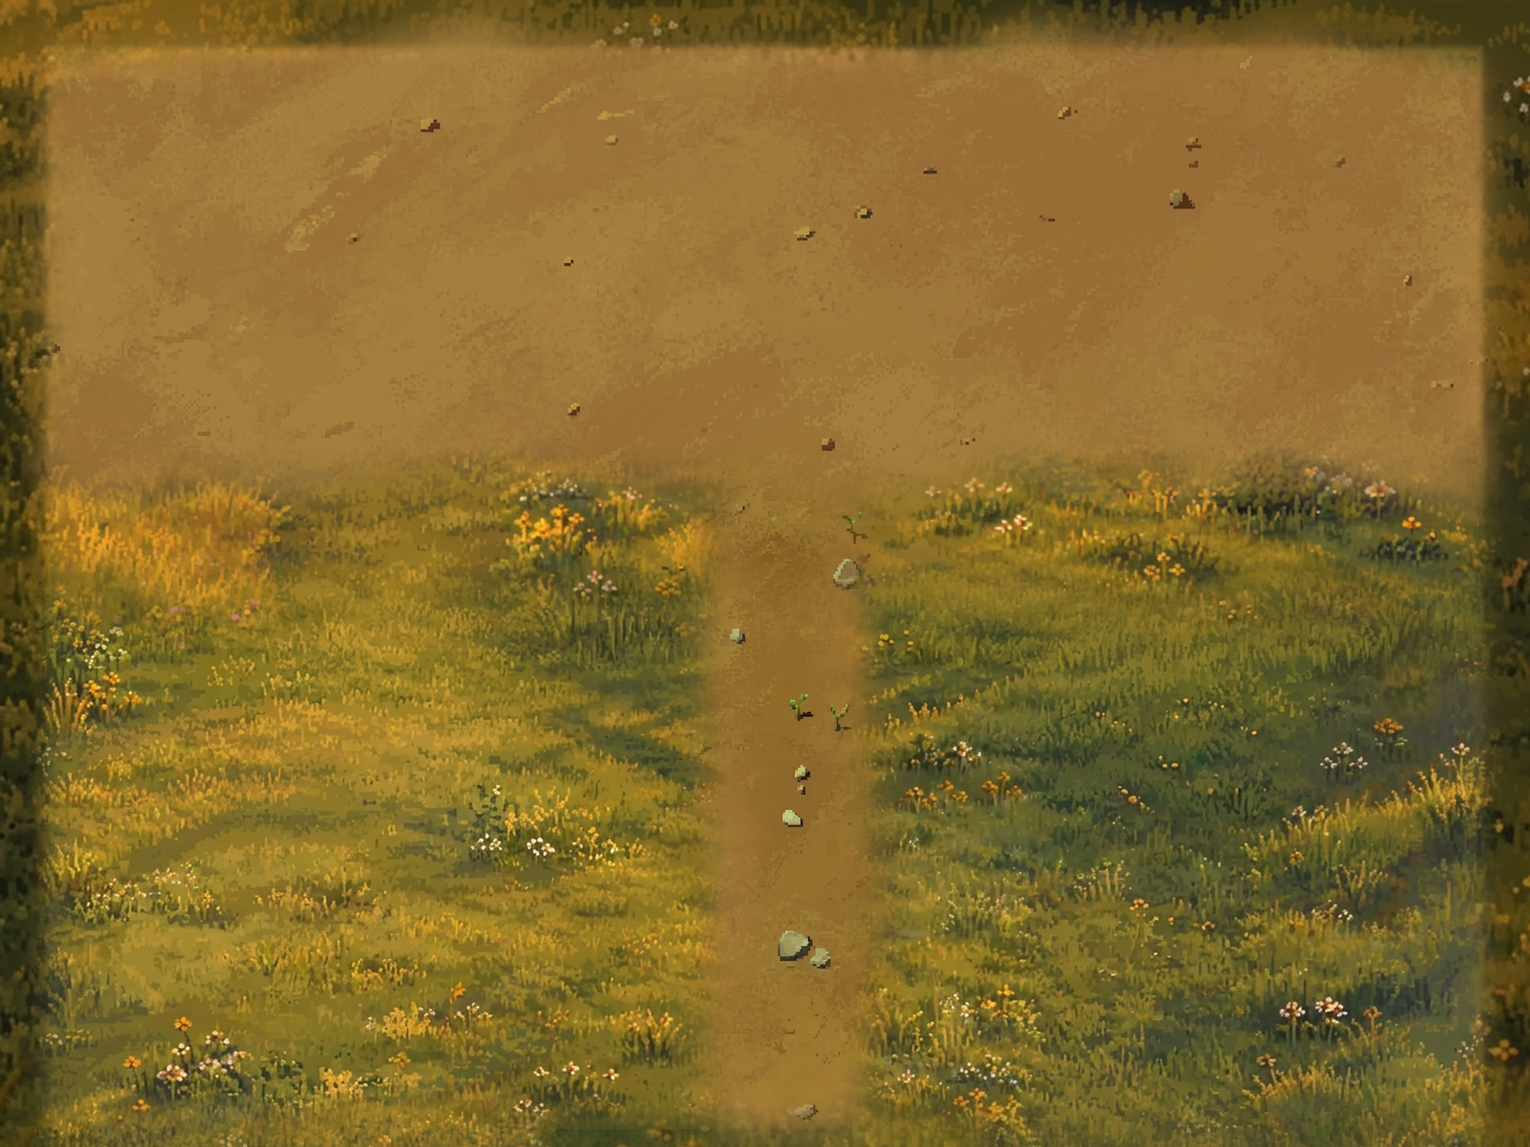
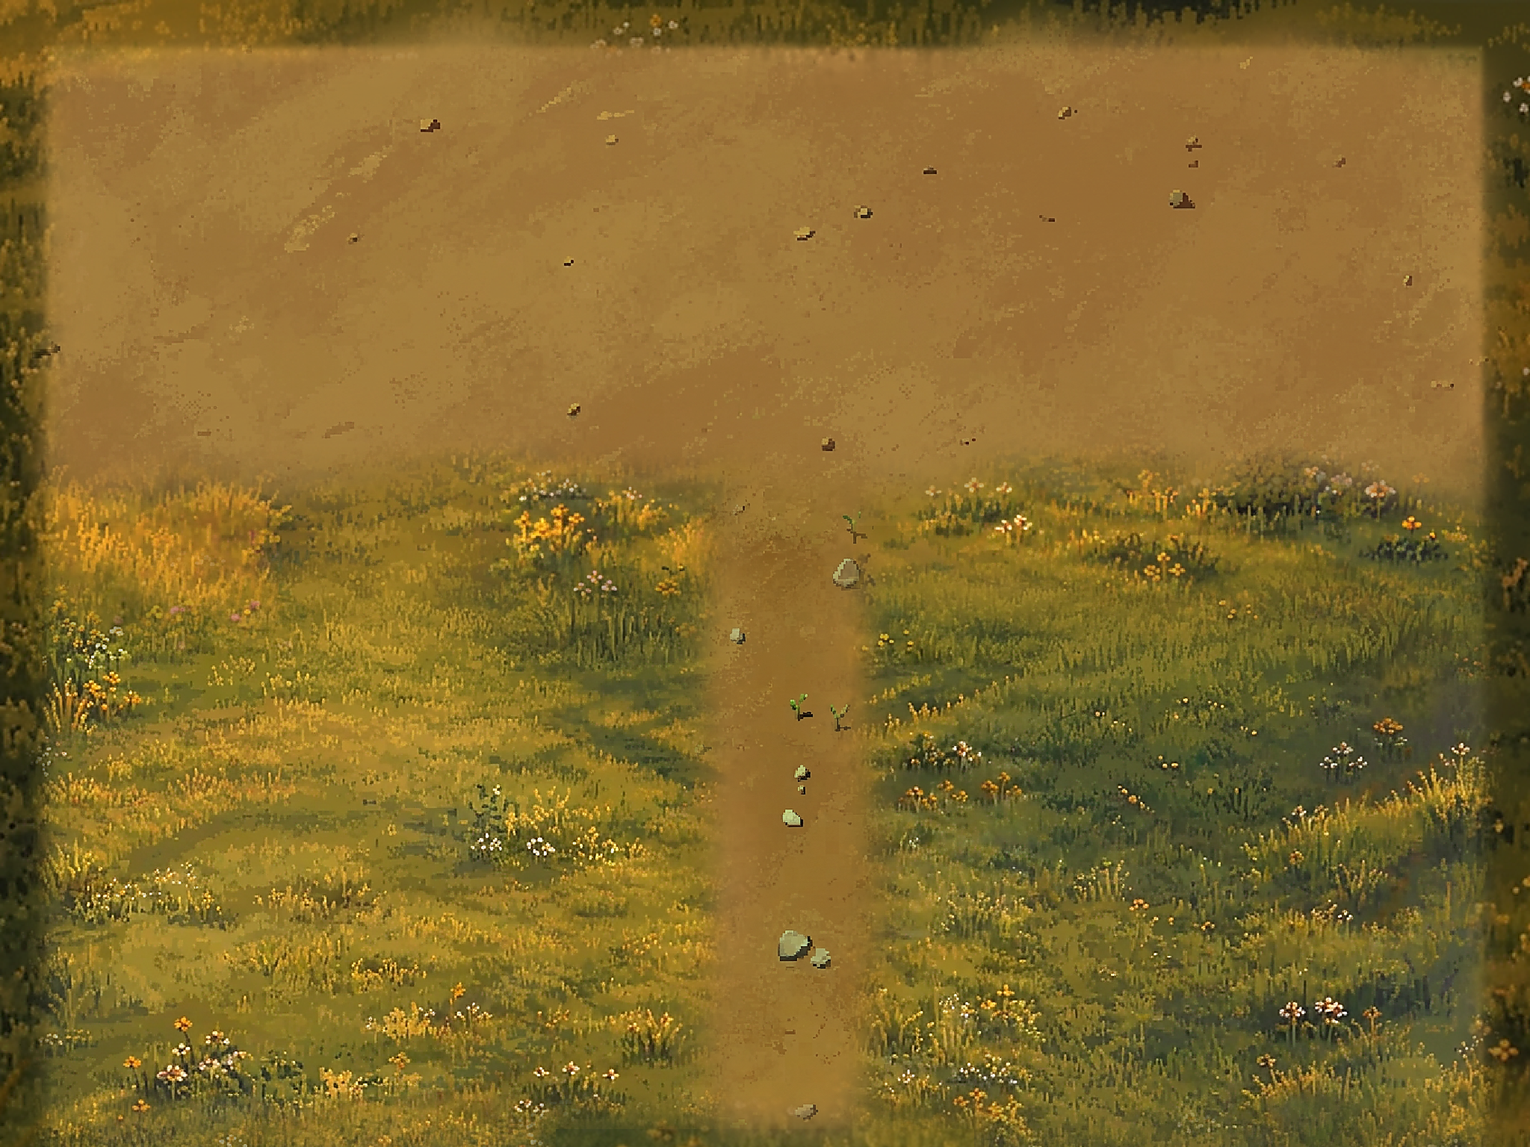
Improve overworld ground clarity

diff --git a/tests/proto/check_quality_assets.py b/tests/proto/check_quality_assets.py
@@ -11,7 +11,7 @@ from pathlib import Path
 import sys
 import tempfile
 
-from PIL import Image, ImageChops
+from PIL import Image, ImageChops, ImageStat
 
 ROOT = Path(__file__).resolve().parents[2]
 os.chdir(ROOT)
@@ -34,6 +34,17 @@ def same_pixels(generated, path):
     with Image.open(path) as saved:
         return (generated.mode == saved.mode and generated.size == saved.size
                 and generated.tobytes() == saved.tobytes())
+
+
+def adjacent_luma_difference(image):
+    """Mean local edge strength, used only as a blur regression indicator."""
+    gray = image.convert("L")
+    width, height = gray.size
+    horizontal = ImageChops.difference(gray.crop((0, 0, width - 1, height)),
+                                       gray.crop((1, 0, width, height)))
+    vertical = ImageChops.difference(gray.crop((0, 0, width, height - 1)),
+                                     gray.crop((0, 1, width, height)))
+    return (ImageStat.Stat(horizontal).mean[0] + ImageStat.Stat(vertical).mean[0]) / 2.0
 
 
 def source_point_to_field(x, y):
@@ -147,21 +158,47 @@ def check_refinement():
             assert max(piece.size) <= 2048, "texture exceeds older phone WebGL limits"
             assert same_pixels(piece, path), "non-reproducible refined ground: " + str(path)
             image.paste(piece, (0, y))
-        # Water and crossing are *exactly* the earlier reference pixels at the
-        # new density. Use a max across RGB channels, not grayscale conversion,
-        # which can round a one-channel difference to zero. This also catches a
-        # misplaced cut between the pieces.
-        red, green, blue = ImageChops.difference(image, masks["base"]).split()
+        # Compare independently against the original reference, not the
+        # builder's sharpened land base: otherwise sharpening the protected
+        # shoreline could make both output and expected pixels wrong together.
+        reference = Image.open(Path("art/scenes_painted") /
+                               ("world_" + region + "_reference.png")).convert("RGB")
+        reference = reference.resize((width, height), Image.Resampling.LANCZOS)
+        assert reference.tobytes() == masks["reference_base"].tobytes()
+        # Use the max across RGB channels, not grayscale, which can round a
+        # one-channel difference to zero. Both halves are reassembled here.
+        red, green, blue = ImageChops.difference(image, reference).split()
         diff = ImageChops.lighter(ImageChops.lighter(red, green), blue)
+        water = refined_ground.material_mask(raw["grid"], "~=e", (width, height))
+        shore_core = refined_ground.material_mask(raw["grid"], "~=e", (width, height), padding=24)
+        assert masks["water"].tobytes() == water.tobytes(), region + " changed protected materials"
+        assert masks["shore_core"].tobytes() == shore_core.tobytes(), region + " changed shoreline core"
         if region == "elah":
-            assert masks["water"].getbbox() is not None, "Elah water mask is empty"
-            assert ImageChops.subtract(masks["shore_core"], masks["water"]).getbbox() is not None, \
+            assert water.getbbox() is not None, "Elah water mask is empty"
+            assert ImageChops.subtract(shore_core, water).getbbox() is not None, \
                 "Elah shoreline protection must extend beyond water tiles"
-        assert ImageChops.multiply(diff, masks["water"]).getbbox() is None, region + " changed water"
-        assert ImageChops.multiply(diff, masks["shore_core"]).getbbox() is None, region + " cut into shoreline"
+        assert ImageChops.multiply(diff, water).getbbox() is None, region + " changed water"
+        assert ImageChops.multiply(diff, shore_core).getbbox() is None, region + " cut into shoreline"
         assert ImageChops.multiply(diff, masks["grass"]).getbbox() is not None, region + " lacks new meadow detail"
         assert ImageChops.multiply(diff, masks["path"]).getbbox() is not None, region + " lacks new path detail"
-    print("refined fig and four reproducible map-aligned ground pieces with untouched water: PASS")
+
+        # Fixed, ground-only crops from the previously published textures. This
+        # numerical check catches a return to the blurred source processing, or
+        # an extreme change in contrast/colour; it is not a substitute for
+        # viewing actual frames or checking for shimmer while moving.
+        part, box = {"elah": ("bottom", (700, 950, 1000, 1250)),
+                     "bethlehem": ("top", (100, 400, 400, 700))}[region]
+        before = Image.open(Path("tests/fixtures/ground_clarity") /
+                            (region + "-published.png")).convert("RGB")
+        after = pieces[part].crop(box)
+        baseline_edge = adjacent_luma_difference(before)
+        edge = adjacent_luma_difference(after)
+        assert 1.25 * baseline_edge < edge < 1.95 * baseline_edge, \
+            f"{region} clarity regression: before {baseline_edge:.2f}, after {edge:.2f}"
+        old_mean, new_mean = ImageStat.Stat(before).mean, ImageStat.Stat(after).mean
+        assert max(abs(a - b) for a, b in zip(old_mean, new_mean)) < 3.0, \
+            region + " ground palette shifted in clarity crop"
+    print("refined fig, clearer split ground, stable palettes and untouched water/shore: PASS")
 
 
 def check_people():

diff --git a/tools/art/build_refined_ground.py b/tools/art/build_refined_ground.py
@@ -9,6 +9,11 @@ original map materials; the brook and crossing retain the old pixels. This is
 visual art only: navigation, collision, props and story positions remain in
 region JSON. The shepherd-field reference is deliberately untouched.
 
+The source paintings are sharpened before nearest-neighbour resizing, so their
+existing small details survive without an extra smooth resampling pass. This
+improves perceived edge clarity; it does not invent high-resolution detail.
+The original shoreline and water retain their previous Lanczos-scaled pixels.
+
 Each output is at most 2048 pixels on a side, to avoid requiring a larger WebGL
 texture limit. The runtime places the two halves at their original world extent.
 Requires Pillow 13.0.0. Run from the repository root; --check is read-only.
@@ -72,6 +77,17 @@ def ridge_mask_for(grid, size):
     return mask.filter(ImageFilter.GaussianBlur(26))
 
 
+def fit_ground_detail(source, size):
+    """Retain the painting's small edges instead of smoothing them twice.
+
+    Sharpen at the *source* scale, not after enlargement. Nearest-neighbour
+    fitting then preserves those painted edges without adding interpolated blur.
+    This is deliberately limited to land artwork, not the protected water.
+    """
+    source = source.filter(ImageFilter.UnsharpMask(radius=1.0, percent=140, threshold=3))
+    return ImageOps.fit(source, size, Image.Resampling.NEAREST)
+
+
 def meadow(region, size):
     width, height = size
     sources = MEADOWS[region]
@@ -84,7 +100,7 @@ def meadow(region, size):
         # remaining irregular grass and flowers at their natural proportions.
         trim = 80 if region == "elah" else 48
         source = source.crop((0, 0, source.width, source.height - trim))
-        image = ImageOps.fit(source, (width, band_h), Image.Resampling.LANCZOS)
+        image = fit_ground_detail(source, (width, band_h))
         if mirrored:
             image = ImageOps.mirror(image)
         if index == 0:
@@ -117,7 +133,7 @@ def path_texture(size):
                       source.crop((middle, 0, source.width, source.height))])
     strip = Image.new("RGB", (strip_w, height))
     for i, crop in enumerate(crops):
-        section = ImageOps.fit(crop, (strip_w, band_h), Image.Resampling.LANCZOS)
+        section = fit_ground_detail(crop, (strip_w, band_h))
         y = i * (band_h - overlap)
         if i == 0:
             strip.paste(section, (0, y))
@@ -178,16 +194,23 @@ def build(region):
     previous = Image.open(SCENES / ("world_" + region + "_reference.png")).convert("RGB")
     if previous.size != (size[0] // 2, size[1] // 2):
         raise ValueError("previous ground no longer matches the region: " + region)
-    base = previous.resize(size, Image.Resampling.LANCZOS)
+    reference_base = previous.resize(size, Image.Resampling.LANCZOS)
     # Protect the river tiles exactly AND the irregular painted shoreline that
     # extends into adjacent grass tiles. Without that extra feathered margin,
     # replacing the meadow cuts the winding bank into a straight tile edge.
-    # Water and crossing pixels are enlarged, never repainted or reinterpreted.
+    # Water and crossing pixels keep the previous pass's exact pixels.
     water = material_mask(grid, "~=e", size)
     shore_core = material_mask(grid, "~=e", size, padding=24)
     shoreline = material_mask(grid, "~=e", size, feather=20, padding=40)
     protected = ImageChops.lighter(shore_core, shoreline)
     safe = ImageChops.invert(protected)
+
+    # The reference also remains visible on paving and the edges of paths.
+    # Sharpen those existing land pixels, too, but cross-fade to the unchanged
+    # reference before reaching the shoreline. No map or collision changes.
+    sharper_base = previous.filter(ImageFilter.UnsharpMask(radius=1.0, percent=100, threshold=3))
+    sharper_base = sharper_base.resize(size, Image.Resampling.NEAREST)
+    base = Image.composite(sharper_base, reference_base, safe)
     grass_mask = ImageChops.multiply(material_mask(grid, ".fgwm", size, 18), safe)
     meadow_texture = meadow(region, size)
     image = Image.composite(meadow_texture, base, grass_mask)
@@ -205,7 +228,7 @@ def build(region):
         ridge_mask = ImageChops.multiply(ridge_mask_for(grid, size), safe)
         ridge = Image.new("RGB", size)
         earth = Image.open(ROOT / "reference_earth_ground.png").convert("RGB")
-        ridge.paste(ImageOps.fit(earth, (size[0], 11 * TILE), Image.Resampling.LANCZOS), (0, 0))
+        ridge.paste(fit_ground_detail(earth, (size[0], 11 * TILE)), (0, 0))
         ridge = match_mean(ridge, base, ridge_mask)
         image = Image.composite(ridge, image, ridge_mask)
 
@@ -223,7 +246,8 @@ def build(region):
     middle = size[1] // 2
     pieces = {"top": image.crop((0, 0, size[0], middle)),
               "bottom": image.crop((0, middle, size[0], size[1]))}
-    return pieces, {"base": base, "water": water, "shore_core": shore_core,
+    return pieces, {"base": base, "reference_base": reference_base,
+                    "water": water, "shore_core": shore_core,
                     "grass": grass_mask, "path": path_mask}
 
 

diff --git a/tests/test_pack_contents.py b/tests/test_pack_contents.py
@@ -64,6 +64,10 @@ class PackBoundaryTests(unittest.TestCase):
                         "art/characters_reference/eliab_back_body.png.import",
                         "art/characters_reference/king_front_body.png.import",
                         "art/scenes_painted/world_elah_reference.png.import",
+                        "art/scenes_painted/world_elah_refined_top.png.import",
+                        "art/scenes_painted/world_elah_refined_bottom.png.import",
+                        "art/scenes_painted/world_bethlehem_refined_top.png.import",
+                        "art/scenes_painted/world_bethlehem_refined_bottom.png.import",
                         "art/props_painted/tent_royal_open.png.import",
                         "art/props_painted/brook_stone_a.png.import"):
                 with self.subTest(mode=mode, art=art), self.assertRaisesRegex(ValueError, "missing runtime art resources"):

diff --git a/tools/check_pack_contents.py b/tools/check_pack_contents.py
@@ -35,6 +35,12 @@ REQUIRED_ART = {
     "art/characters_reference/boy_front_idle.png.import",
     "art/scenes_painted/world_elah_reference.png.import",
     "art/scenes_painted/world_bethlehem_reference.png.import",
+    # These are dynamically selected as a pair; without either half Region
+    # silently falls back to the older, softer single-texture ground.
+    "art/scenes_painted/world_elah_refined_top.png.import",
+    "art/scenes_painted/world_elah_refined_bottom.png.import",
+    "art/scenes_painted/world_bethlehem_refined_top.png.import",
+    "art/scenes_painted/world_bethlehem_refined_bottom.png.import",
     "art/scenes_painted/shepherd_field_reference.png.import",
     "art/scenes_painted/shepherd_field_reference_tree.png.import",
     "art/scenes_painted/shepherd_field_reference_fence.png.import",

diff --git a/docs/AGENT_CONTINUATION.md b/docs/AGENT_CONTINUATION.md
@@ -8,6 +8,12 @@ The user authorized publication of the refined chapter, now available at https:/
 
 The active branch is `arena/905f79d4-walkincovenant`, based on `cec25b525d44dff3b96970415fa2232a13e9d676`. Inspect CI and Pages for the **exact** revision before making claims about a later build. Automated public-browser checks do not establish physical-device appearance, audible quality or art approval.
 
+## Unpublished ground-clarity follow-up
+
+The user reported that the published ground still looked blurry compared with the objects and asked for it to look equally sharp. The working tree now has a **local-only** clarity pass: the existing meadow/soil source edges are sharpened before nearest-neighbour fitting, and retained land/paving pixels are treated similarly. The runtime was already using nearest filtering. This makes existing detail more legible but does not reconstruct missing detail or increase texture resolution. The original water, crossing tiles and a padded shoreline core remain pixel-identical; some older soft grass remains in that protected brook strip. Map data, collision, props and the separately painted shepherd field have not changed. [Ground clarity review](art-reset/GROUND_CLARITY_REVIEW.md) includes matching native before/after views, a 2× crop, the two split-texture joins and an emulated DPR-2 browser view.
+
+The four ground outputs reproduce with Pillow 13.0.0; fixed published crops guard edge strength and palette, and independent masks verify the protected reference pixels. Pack validation now requires all four dynamically loaded ground pieces to prevent silently falling back to softer art. Local native gameplay, content/static tests, the motion/seam capture, strict release-Web **30/30**, emulated layout/touch **36**, and a fresh real-input browser journey through the ending passed. A separate local service-worker upgrade from the earlier local refinement export loaded the new pack and preserved a real earned conversation/word, chapter act and changed sound setting; it was not a live-site upgrade. The local Web and Android-preset PCKs contain **856** entries and the disposable test pack **963**; the local Web PCK is **29.60 MiB**. No phone, APK, listening or human art-approval test was performed; immediate-shutdown resource warnings remain. The preview is ephemeral and must not be confused with the public Pages site. No fresh hosted CI or authorization for publication has been obtained for this pass.
+
 ## Published refinement
 
 The approved `d8526c3` pass improves gait, prop proportions and ground detail over the earlier published revision. [The refinement review](art-reset/REFINEMENT_REVIEW.md) includes paired staged framebuffers, motion clips from fixed-step production movement, a real browser journey view, and its verification and limits. Further branch work should not be assumed to be public or deployed without new authorization.
@@ -20,7 +26,7 @@ Local checks for this pass: fresh Chromium journey through the ending **37** ass
 
 The initial hosted run [43246174951](https://github.com/fongway94/WalkInCovenant/actions/runs/43246174951) passed the visual capture and export but failed timed practice in the browser journey with zero hits; later layout/replay jobs within that step did not run. A local 400-ms added-input-latency negative control made the old practice driver miss all 14 shots. The revised `tests/browser/practice_driver.cjs` observes real registered hits/misses and adapts its lead without changing the game; `practice_latency.cjs` passed locally with 0, 100, 200, 300 and 400 ms added delay. This suggests, but does not prove, the cause of the hosted failure. The CI chapter job now exercises 0/200/400 ms before the full journey; all passed in [run 43251709210](https://github.com/fongway94/WalkInCovenant/actions/runs/43251709210).
 
-At the time of the pass, port 8114 serves an ephemeral local release preview from `build/refinement-test/serve/`. The test-only launchers were removed from that served directory after regression runs and the fixture URL returned 404; the release pack passed its boundary check. `build/` and local processes do not persist as source, and the preview is not the public phone link.
+The previous port-8114 preview from `build/refinement-test/serve/` is historical. At the time of the ground-clarity follow-up, port 8088 serves the local release export in `build/web-ground-hd/`; the disposable test-pack route is removed after the browser checks. `build/` and local processes do not persist as source, and neither preview is the public phone link.
 
 ## Previous published chapter-wide reference pass
 
@@ -34,7 +40,7 @@ The previous tent hid Saul's lower body. `Region.gd` now selects an open-front t
 
 [Quality review and framebuffer captures](art-reset/QUALITY_REVIEW.md) records actual staged and browser views. Local checks: full fresh browser journey to the ending, replay/recovery **34**, layout/bilingual/emulated touch **36** (DPR-2 1688×780 backing at 844×390 CSS), strict release **30/30**; no unexpected browser errors/warnings. Headless stage **54**, resume **24**, painted **116**, slots **38**, context **35**, audio **21**, deep **144**, smoke/content passed. Native software OpenGL rendered **18 frames**, and the isolated prototype passed at **1280×720**. Its earlier exploratory 1000×450 run failed viewport-specific assertions and is not a valid pass. No baselines were replaced. Local Web and Android-preset release PCKs each had **844** indexed resources, the separate disposable probe pack **947**. A PCK is not an Android APK; no physical-phone, listening or human art approval is implied. Immediate-shutdown ObjectDB/resource warnings remain.
 
-The old port-8103 preview and its test-only `/__probe__/` are historical, not a durable release. The current local refinement preview is described above.
+The old port-8103 preview and its test-only `/__probe__/` are historical, not a durable release. The local ground-clarity preview is described above.
 
 ## Current implementation
 

diff --git a/docs/art-reset/GROUND_CLARITY_REVIEW.md b/docs/art-reset/GROUND_CLARITY_REVIEW.md
@@ -1,0 +1,30 @@
+# Ground clarity follow-up
+
+**Status: local preview only, not published.** The public game remains the previously approved `d8526c3` build. This follow-up changes the overworld ground in Elah and Bethlehem; the separately painted shepherd field, objects, paths, collision and story positions are unchanged.
+
+## Before and after in the game
+
+These are real 1000×450 Godot framebuffers from the same staged camera and lighting, not source-image mockups. “Before” is the current public ground; “after” is this local change. The enlarged grass crops use nearest-neighbour scaling. The actors are frozen for comparison; a flame can differ between captures.
+
+![Camp ground before and after](ground-clarity-review/camp-comparison.png)
+
+| Bethlehem before | Bethlehem after |
+|:---|:---|
+| ![Bethlehem before](refinement-review/bethlehem-after.webp) | ![Bethlehem after](ground-clarity-review/bethlehem-after.webp) |
+
+[Stream crossing](ground-clarity-review/crossing-after.webp) · [Elah texture join](ground-clarity-review/elah-seam-after.webp) · [Bethlehem texture join](ground-clarity-review/bethlehem-seam-after.webp) · [Actual release-Web frame at an emulated 844×390 viewport, DPR 2](ground-clarity-review/phone-camp-dpr2.webp)
+
+## What changed
+
+The game was already rendering ground with nearest-neighbour filtering. The blur came from the source artwork and the resampling used to build the textures, so simply toggling the runtime filter did not help. The revised builder sharpens the existing land artwork at source scale before fitting it with nearest-neighbour sampling, including the retained paving and path edges. This improves perceived clarity, but does **not** reconstruct detail missing from the original paintings or change the textures' dimensions.
+
+The existing water, crossings and protected shoreline core remain pixel-identical to the earlier reference at the same density. A small strip of the old grass around the brook consequently remains softer; it was retained to avoid repainting the irregular bank. The split textures still meet at the same world positions and remain within the 2048-pixel texture limit.
+
+## Checks and limits
+
+- All four ground pieces were regenerated and verified against the committed outputs. The test independently checks the water and padded shoreline pixels against the original reference, and compares fixed ground crops to the published version. Mean adjacent-luminance differences rose from **4.28 to 7.07** in the Elah sample and **5.37 to 8.88** in the Bethlehem sample. This is a blur-regression indicator, not proof of visual quality or absence of motion shimmer.
+- Native gameplay: painted world **129/129**, context **35/35**, shepherd stage **54/54**, resume **24/24**, slots **38/38**, audio **21/21**, deep **144**, plus smoke and content validation passed. The rendered fixture captured both texture joins and completed **12** walks/runs, **3** eased stops and **2** NPC patrols with no fixture failures.
+- Strict release-Web Chromium validation passed **30/30** with no console, page or request errors. The browser layout and emulated-touch suite passed **36** checks, including the 844×390 landscape layout. A fresh real-input browser journey passed from the opening conversations through Bethlehem, the field, Saul, the brook, the duel and ending. Touch was emulated, not tested on a physical phone.
+- A separate **local** service-worker upgrade simulation moved from the earlier local refinement export to this one. It loaded the new pack and preserved a genuinely earned conversation/word, chapter act and changed sound setting. It was not a live-site upgrade.
+- Web and Android-preset resource packs each passed the release boundary with **856** indexed resources, including all four dynamically loaded ground pieces; the disposable browser test pack has **963**. The 29.60 MiB local Web PCK is not a published release; an Android PCK is not an APK.
+- No physical-phone performance, human art approval or audible-quality test has been performed. The native screenshot harness still prints its pre-existing resource warnings at immediate shutdown.

diff --git a/tests/fixtures/ground_clarity/README.md b/tests/fixtures/ground_clarity/README.md
@@ -1,0 +1,12 @@
+# Published ground samples
+
+These two 300×300 RGB crops come from the ground textures published at game
+revision `d8526c3`:
+
+- `elah-published.png`: `world_elah_refined_bottom.png`, box `(700, 950, 1000, 1250)`.
+- `bethlehem-published.png`: `world_bethlehem_refined_top.png`, box `(100, 400, 400, 700)`.
+
+`tests/proto/check_quality_assets.py` uses them to catch regressions in local
+edge strength and palette. They are ground pixels only, not gameplay images,
+and the numerical check does not establish artistic quality or absence of
+motion shimmer. The fixtures are excluded from release exports.
